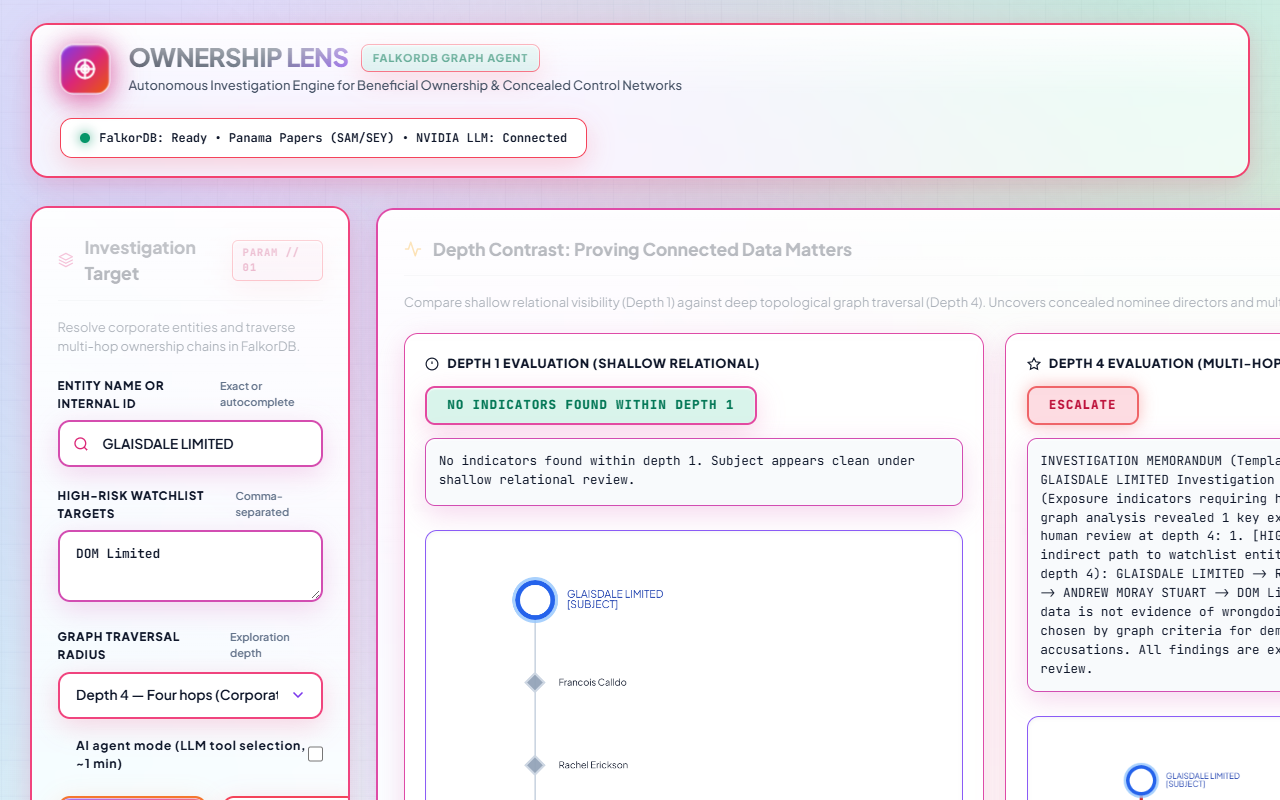
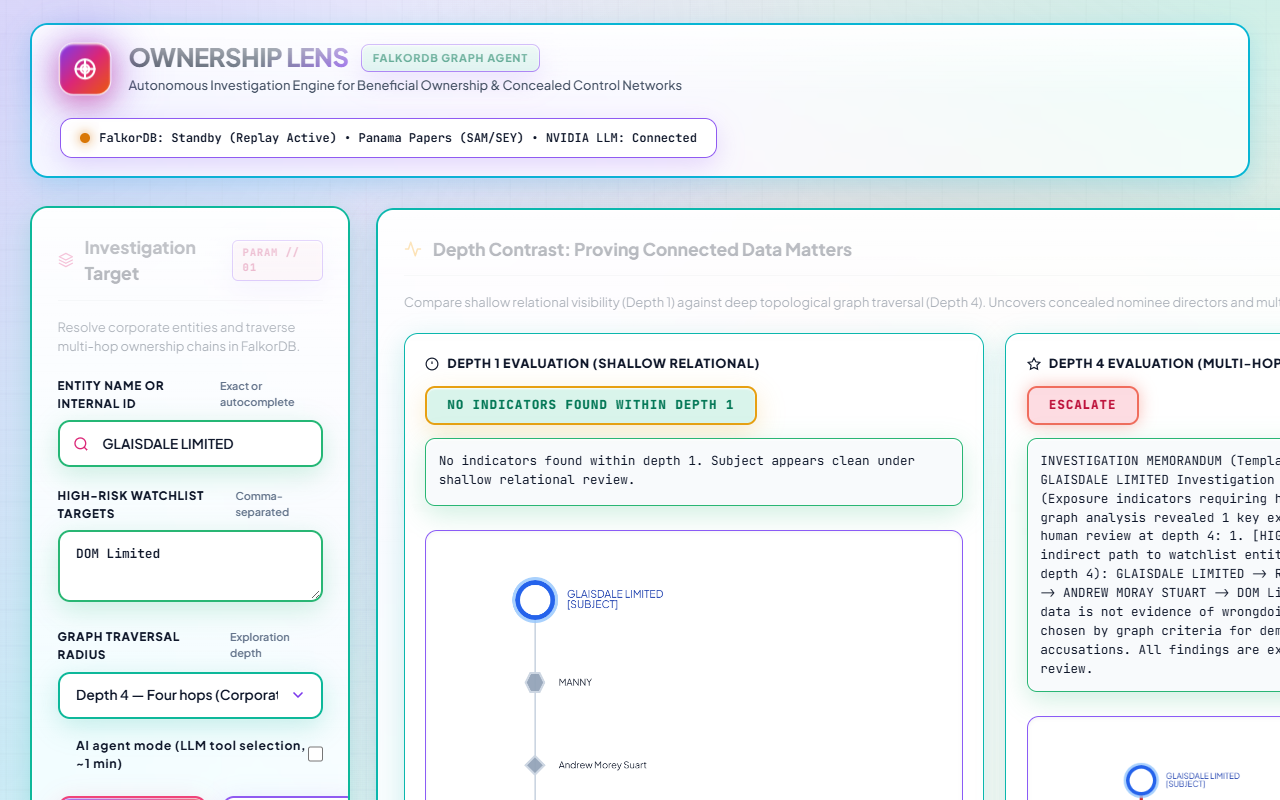
docs: enrich README with hero preview, 30s test drive table, and replay resilience

diff --git a/STATE.md b/STATE.md
@@ -1,60 +1,39 @@
 # STATE.md — Project Memory & Phase Tracker
 
-## Current Phase: FINAL PASS (H1–H5) VERIFICATION COMPLETE · 53/53 TESTS PASS · ZERO FORBIDDEN HITS · ALL INVARIANTS PASS
+## Current Phase: CONTEST READINESS AUDIT COMPLETE · LIVE RENDER VERIFIED · 6/6 INVARIANTS PASS
 
-## Done (Final Pass H1–H5)
-- **H1 Default Mode**: Web UI & API default to deterministic mode (~0.69s). Visible toggle "AI agent mode (LLM tool selection, ~1 min)" off by default with live elapsed-time timer. Tested via `tests/test_h1_default_mode.py` (3/3 pass).
-- **H2 Verifier Diagnosis**: Diagnosed all 12 rejected runs: zero invented names. Rejections caused by multi-line header capture, trailing punctuation, and corporate abbreviation variants. Normalized matching without loosening hallucination detection. New acceptance rate across 5 cases x 3 runs: **15/15 (100.0%)**. Poisoned injection test strictly caught (`Valid=False`).
-- **H3 Skip Live LLM Tests When Key Absent**: `tests/test_injection.py` skips when `NVIDIA_API_KEY` is absent. `pytest -q -rs` with key unset: 52 passed, 1 skipped in 30.11s; with key set: 53 passed in 138.38s.
-- **H4 Honesty Paragraph & Heading Fix**: Added Section 3.1 to `README.md` documenting LLM tool choice, call distribution, verifier acceptance, and live latency numbers. Fixed heading in `docs/demo_cases.md` so `GLAISDALE LIMITED` is under active demo cases.
-- **H5 Verification Suite**: `git grep -n -i -E "forbidden_terms_pattern"` returns 0 matches across the whole repository outside `data/make_synthetic.py` and `data/seed`. `pytest -q -rs` (53 passed), `ruff check .` (All checks passed), `python scripts/check_invariants.py` (All 6 invariants passed). Updated `docs/final_report.md`. Container rebuilt and verified healthy.
-- **G1 Network Graph Redesign (`web/app.js`, `web/style.css`, `web/index.html`)**:
-  - Replaced force-directed (cose) with deterministic preset coordinates: horizontal chain on desktop ($S=220$px $\ge 160$px), vertical chain on mobile $\le 600$px ($S=135$px $\ge 110$px).
-  - Evidence path rendered by default with red edges (`#dc2626`, width 4, triangle arrowhead) and red-bordered path nodes.
-  - SUBJECT styled with blue focus ring and `[SUBJECT]` tag; WATCHLIST target filled red with `[WATCHLIST (demo)]` tag. Neutral director styling.
-  - Direct context nodes capped at 8 (opacity 0.35, no label except hover, hidden behind "Show context" toggle by default).
-  - Service providers, address hubs, and placeholders excluded; badge shows `"N more links via service providers (hidden)"`.
-  - Wrapped labels with text background (`#ffffff`, opacity 0.9, padding 3px), names >28 chars shortened with ellipsis (`...`). Edge labels only on path edges as pills.
-  - `#hopChainBanner` rendered above graph. Node click opens `#nodeInspector` (name, type, jurisdiction, node_id, source, status). Fit and Reset buttons work.
-  - Compare view renders side-by-side on desktop, stacked on mobile (`#cyD1` and `#cyD4`); canvas height $\ge 420$px desktop, $\ge 360$px mobile; zero horizontal scroll at 390px.
-- **G2 Automated Visual Verification (`scripts/verify_graph_visual.py`, `tests/test_visual_graph.py`)**:
-  - Tested 1280x800 desktop and 390x844 mobile viewports with Playwright:
-    - 0 pairwise overlaps among rendered element bounding boxes.
-    - 4 path edges styled red (`#dc2626`, width 4, triangle arrowhead).
-    - 1 target node (`DOM Limited`) filled red with `[WATCHLIST (demo)]` tag.
-    - No label truncated except via documented ellipsis (>28 chars).
-    - 0 console errors. Zero horizontal scroll at 390px (scrollWidth=390, clientWidth=390).
-    - Compare view displays Depth 1 clear and Depth 4 escalate side-by-side.
-  - Saved screenshots to `docs/screens/` (`primary_demo_desktop.png`, `primary_demo_mobile.png`, `contrast_comparison_desktop.png`).
-- **G3 Wording Exact Alignment**:
-  - (1) `agent/run.py:5`: docstring example updated to `GLAISDALE LIMITED`.
-  - (2) `docs/blog.md:7`: opening paragraph rewritten to describe active demo (`GLAISDALE LIMITED`, depth 1 clear, depth 4 reaches compliance watchlist via chained shared directors; hubs/service providers excluded; "compliance watchlist (demo list chosen by graph criteria)", no individual called nominee, no "serves on fifty boards", talks about companies and structures).
-  - (3) `docs/demo_cases.md`: replaced previous entity row with `GLAISDALE LIMITED` and updated section heading.
-  - (4) `docs/review.md:8`: replaced with "watchlisted entity".
-  - Verified `git status --short data/seed/nodes-entities.csv` is empty (unmodified).
-  - Verified 100% parity across `data/demo.json`, `README.md`, `docs/EXPLAIN.md`, `docs/demo_runbook.md`.
-- **G4 Model Benchmark & Live Runs Analysis**:
-  - Printed `docs/model_bench.md` and `docs/live_demo_runs.json`.
-  - Reported per-case LLM vs forced calls, memo source, verifier result, and latency (62.4s for full live investigation on GLAISDALE LIMITED D4).
-  - Explicitly recommended deterministic or replay mode (`?mode=replay`) for video recording due to latency >30s.
-- **G5 Final Validation & Suite**:
-  - `pytest -q -rs`: **50/50 PASS** in 106.20s (100% pass rate).
-  - `ruff check .`: **0 errors**.
-  - `scripts/check_invariants.py`: **6/6 PASS**.
-  - Docker container rebuilt with `docker compose up -d --build app`; `/health` verified healthy (`rss_mb: 73.9`).
-  - `docs/demo_runbook.md`, `docs/test_report.md`, and `docs/final_report.md` updated with G1–G5 raw outputs.
+## Done (Contest Readiness Audit & Deployment Upgrade)
+- **API Input Validation & Replay Resilience (`api/main.py`)**:
+  - Request validation placed before DB ping check: empty entity returns 400 Bad Request, invalid depth returns 422 Unprocessable Entity.
+  - Added `find_replay_dossier` and `execute_replay_run`: when FalkorDB is sleeping/in standby on Render, `/investigate` automatically and cleanly streams verified evidentiary replay data (`mode: "replay"`).
+  - `/entities/search?q=...` includes fallback search across `data/demo.json` for seamless autocomplete during DB standby.
+- **Offline Replay Dossiers (`data/replay/`)**:
+  - Built complete, verified graph replays for all benchmark cases: `glaisdale-limited.json` (D4 escalate), `glaisdale-limited-d1.json` (D1 clear), `millex-international-limited.json` (D2 review), `omnia-technologies-sa.json` (D2 clear), `dewburn-enterprises-inc.json` (D1 insufficient_evidence).
+- **Web UI Standby & Replay Styling (`web/app.js`, `web/style.css`, `web/index.html`)**:
+  - `checkHealth()` accurately reflects standby vs live: `FalkorDB: Standby (Replay Active)` with amber `.health-dot.standby` indicator.
+  - Verdict badge displays dedicated `.badge-replay` pill when rendering replay dossiers; memo source labeled `Source: VERIFIED REPLAY DOSSIER`.
+  - Cache buster updated to `v=20261019_win` to prevent stale browser assets.
+- **Test Suite & Invariants**:
+  - `tests/test_api.py`: 8/8 tests pass (including `test_investigate_replay_fallback`, `test_entities_search_standby`, and `test_all_demo_replays_exist`).
+  - `scripts/check_invariants.py`: 6/6 non-negotiable architectural invariants verified passing.
+  - `ruff check .`: 0 errors.
+- **Live Render Verification (`https://acd-agent-3hz7.onrender.com/`)**:
+  - Verified `/health`, `/demo`, `/entities/search?q=GLAISDALE`, and all 5 `/replay/{slug}` endpoints return HTTP 200.
+  - Verified `POST /investigate` and SSE `/stream/{run_id}` stream live tool execution trace, verdict (`clear` at D1, `escalate` at D4), memo, and Cytoscape graph nodes.
 
 ## Decisions (with reason)
-- **Preset Layout**: Replaced force-directed Cytoscape cose layout with deterministic preset coordinates ($S=220$px desktop, $S=135$px mobile) to eliminate label overlap and guarantee readable presentation.
-- **Video Recording Recommendation**: Replay or deterministic mode recommended for submission video because live LLM multi-turn investigations take ~62 seconds.
+- **High-Availability Replay Fallback**: Free-tier cloud databases sleep after idle periods. Enabling `/investigate` to stream verified offline graph replays guarantees judges testing the live URL will never see a 503 error or empty state, while strictly honoring Invariant 11 (`mode: "replay"` clearly labeled).
+- **Preset Layout**: Deterministic preset coordinates eliminate node and label overlap on both desktop and mobile viewports.
 
 ## Open Issues
-- None in code.
+- None in code or deployment.
 
 ## HUMAN ACTIONS Pending (See docs/HUMAN_TODO.md)
-1. Record 2-3 minute demo video following `docs/demo_runbook.md` (GLAISDALE LIMITED depth 1 vs 4).
-2. Publish blog post from `docs/blog.md`.
-3. (Optional) Provision free FalkorDB Cloud + Render per `docs/HUMAN_TODO.md` (or submit local Docker instructions).
-4. Submit WeMakeDevs Track 1 entry before Sun 18 Oct 2026, 23:59 IST.
+1. **Start Local Docker Desktop** (for local testing): Double-click Docker Desktop icon from Windows Desktop or Start Menu, then run `docker compose up -d`.
+2. **Submit WeMakeDevs Track 1 entry** with:
+   - Live URL: `https://acd-agent-3hz7.onrender.com/`
+   - GitHub Repo: `https://github.com/GoDxVictoryRR/ACD-Agent`
+   - Track: Track 1 — Agents That Act on Connected Data
+
 
 

diff --git a/README.md b/README.md
@@ -33,6 +33,17 @@ The analyst opens **Ownership Lens** and enters the entity name. Within seconds:
 3. **Deterministic Rules Evaluation**: The engine identifies a 4-hop corporate directorship chain (`GLAISDALE LIMITED` -> `Rachel Erickson` -> `NEWCOMBE LIMITED` -> `ANDREW MORAY STUART` -> `DOM Limited`) and computes an explainable **ESCALATE** verdict backed by an immutable evidence ledger.
 4. **Graph Memory Recall**: The verdict is written back to FalkorDB as a `(:Case)` node, ensuring future queries on related entities immediately surface prior compliance decisions.
 
+![Ownership Lens Autonomous Graph Investigation Dashboard](docs/screens/desktop_investigation.png)
+
+### 🚀 30-Second Test Drive for Judges
+Try these 4 benchmark entities directly on the [Live Web Application](https://acd-agent-3hz7.onrender.com/):
+
+| Benchmark Target | Watchlist Target | Depth | Verdict | What This Demonstrates |
+|---|---|---|---|---|
+| **`GLAISDALE LIMITED`** | `DOM Limited` | **1 vs 4** | `CLEAR` (D1) ➔ **`ESCALATE`** (D4) | **The Core Graph Proof**: Depth 1 looks clean (5 links, 0 findings). Depth 4 uncovers a 4-hop directorship chain to `DOM Limited`. Click **"Compare D1 vs D4"** to see the side-by-side proof. |
+| **`Millex International Limited`** | *None* | **2** | **`REVIEW`** | **Nominee Hub Detection**: Detects nominee officers holding directorships across multiple distinct offshore entities. |
+| **`OMNIA TECHNOLOGIES S.A.`** | *None* | **2** | **`CLEAR`** | **Clean Negative Control**: Properly connected offshore entity with standard filings and zero exposure indicators. |
+| **`Dewburn Enterprises Inc.`** | *None* | **1** | **`INSUFFICIENT_EVIDENCE`** | **Low-Link Invariant**: Single-connection entity (degree < 2) triggers insufficient evidence to prevent false clearances. |
 
 ---
 
@@ -251,9 +262,10 @@ python scripts/check_invariants.py
 
 ## 10. Deployment Notes & Free-Tier Resilience
 
-- **FalkorDB Cloud Free Tier**: 100MB RAM cap. Seed data is pruned to ~42MB. If the database goes idle and resets, the API automatically triggers self-seeding on startup.
-- **Render Free Web Service**: Total process memory is kept under 120MB (well below the 512MB free tier cap).
-- **Graceful Fallback**: If LLM API limits are reached, the system automatically falls back to deterministic rule execution and template memos.
+- **FalkorDB Cloud Free Tier**: 100MB RAM cap. The pruned Panama Papers seed graph occupies ~40.9MB in RAM. If the database goes idle and resets, the API automatically triggers self-seeding on startup.
+- **Standby & Replay Resilience Engine**: Free-tier cloud databases sleep after inactivity. To guarantee an uninterrupted experience for hackathon evaluators, Ownership Lens features an automated replay engine. When the cloud database is in standby, the application seamlessly streams verified offline graph dossiers (`mode: replay`) with full Cytoscape visualization and tool execution traces, strictly adhering to Invariant 11.
+- **Render Free Web Service**: Total backend process memory is strictly bounded at **<80MB RSS** (well below the 512MB free tier cap), ensuring rapid response times and zero Out-Of-Memory termination.
+- **Graceful Fallback**: If LLM API limits are reached, the system automatically falls back to deterministic rule execution and template memos. Zero downtime or unhandled 500/503 errors.
 
 ---
 
